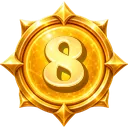
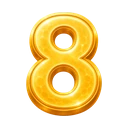
Add Sharp lesson number assets

diff --git a/frontend/scripts/test-guided-today-path-overview.ts b/frontend/scripts/test-guided-today-path-overview.ts
@@ -242,7 +242,8 @@ assert('segment review tiles use local segment review completion for complete We
 assert('Bright lesson cards render image number assets', todayPathOverviewSource.includes('LessonNumberMarker') && todayPathOverviewSource.includes('/guided/lesson-numbers/bright/${paddedLessonNumber}.webp') && todayPathOverviewSource.includes('data-lesson-number-asset="bright"'))
 const lessonNumberMarkerSource = sliceBetween(todayPathOverviewSource, 'function LessonNumberMarker', 'function CompletedVibeBadges')
 assert('Wistful lesson cards render selected image number assets for lessons 1-5', lessonNumberMarkerSource.includes("selectedVibeId === 'wistful'") && lessonNumberMarkerSource.includes('lessonNumber <= 5') && lessonNumberMarkerSource.includes('/guided/lesson-numbers/wistful/${paddedLessonNumber}.webp') && lessonNumberMarkerSource.includes('data-lesson-number-asset="wistful"'))
-assert('Sharp lesson cards still fall back to text numbers', !lessonNumberMarkerSource.includes('/guided/lesson-numbers/sharp/') && lessonNumberMarkerSource.includes('return <>{lessonNumber}</>'))
+assert('Sharp lesson cards render selected image number assets for lessons 1-5', lessonNumberMarkerSource.includes("selectedVibeId === 'sharp'") && lessonNumberMarkerSource.includes('lessonNumber <= 5') && lessonNumberMarkerSource.includes('/guided/lesson-numbers/sharp/${paddedLessonNumber}.webp') && lessonNumberMarkerSource.includes('data-lesson-number-asset="sharp"'))
+assert('Sharp lesson cards still fall back to text numbers after lesson 5', lessonNumberMarkerSource.includes('return <>{lessonNumber}</>'))
 assert('segment review tile CSS constrains banner size', todayCssSource.includes('min-height: 7rem') && todayCssSource.includes('max-height: 5.75rem') && todayCssSource.includes('max-width: min(100%, 42rem)'))
 assert('lesson cards select lessons without opening the session', lessonPathCardSource.includes('onSelectLesson(lesson.id)') && !lessonPathCardSource.includes('onOpenLesson(lesson.id)'))
 assert('selected lesson panel keeps selected/recommended label copy screen-reader only', recommendedLessonPanelSource.includes('className="sr-only"') && recommendedLessonPanelSource.includes("t('today.path.selectedLessonLabel')") && recommendedLessonPanelSource.includes("t('today.path.nextLessonLabel')"))

diff --git a/frontend/scripts/test-guided-segment-reviews.ts b/frontend/scripts/test-guided-segment-reviews.ts
@@ -101,6 +101,15 @@ for (let lessonNumber = 1; lessonNumber <= 5; lessonNumber += 1) {
   assert(`wistful lesson number ${lessonNumber} asset stays small`, bytes.length > 1_000 && bytes.length < 20_000, bytes.length)
 }
 
+for (let lessonNumber = 1; lessonNumber <= 5; lessonNumber += 1) {
+  const assetPath = fileURLToPath(new URL(`../public/guided/lesson-numbers/sharp/${String(lessonNumber).padStart(2, '0')}.webp`, import.meta.url))
+  assert(`sharp lesson number ${lessonNumber} asset exists`, existsSync(assetPath), assetPath)
+  if (!existsSync(assetPath)) continue
+  const bytes = readFileSync(assetPath)
+  assert(`sharp lesson number ${lessonNumber} asset is WebP`, bytes.subarray(0, 4).equals(Buffer.from('RIFF')) && bytes.subarray(8, 12).equals(Buffer.from('WEBP')))
+  assert(`sharp lesson number ${lessonNumber} asset stays small`, bytes.length > 1_000 && bytes.length < 20_000, bytes.length)
+}
+
 console.log('\n[plan selection]')
 for (const pathId of pathIds) {
   const plan = buildGuidedSegmentReviewPlan(createEmptyTodayProgressState(), pathId, 1, 'bright', fixedRng())

diff --git a/frontend/src/components/today/TodayPathOverview.tsx b/frontend/src/components/today/TodayPathOverview.tsx
@@ -390,6 +390,20 @@ function LessonNumberMarker({
     )
   }
 
+  if (selectedVibeId === 'sharp' && lessonNumber >= 1 && lessonNumber <= 5) {
+    const paddedLessonNumber = String(lessonNumber).padStart(2, '0')
+
+    return (
+      <img
+        src={`/guided/lesson-numbers/sharp/${paddedLessonNumber}.webp`}
+        alt=""
+        className="today-path-cardNumberImage"
+        draggable={false}
+        data-lesson-number-asset="sharp"
+      />
+    )
+  }
+
   return <>{lessonNumber}</>
 }
 
